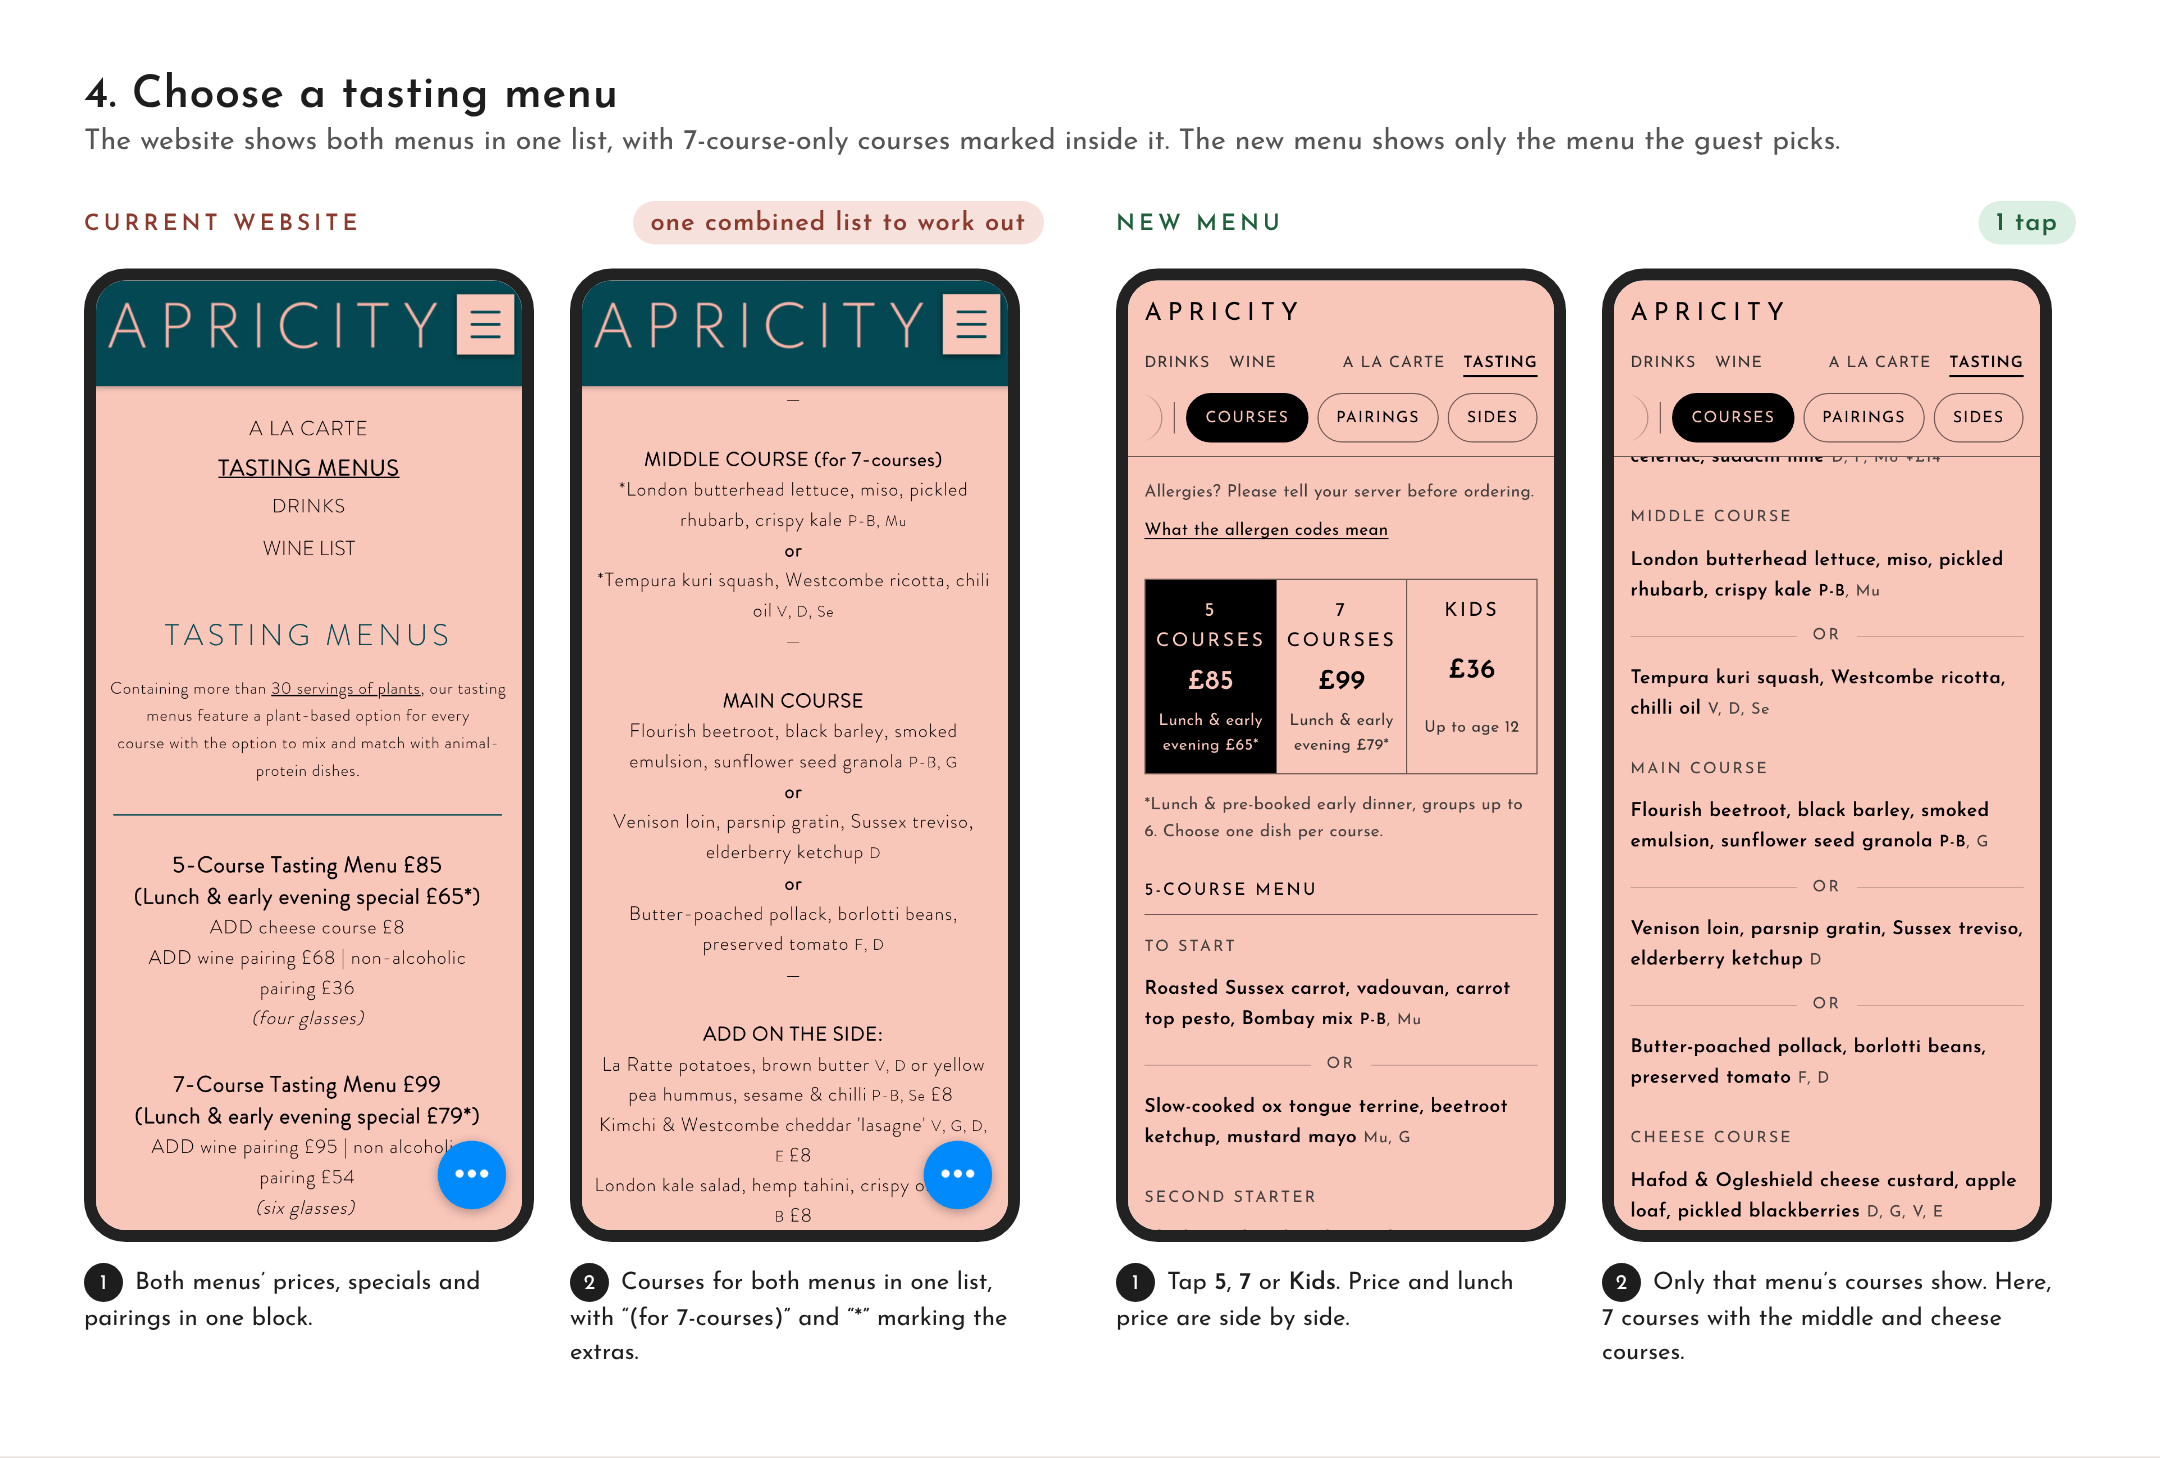
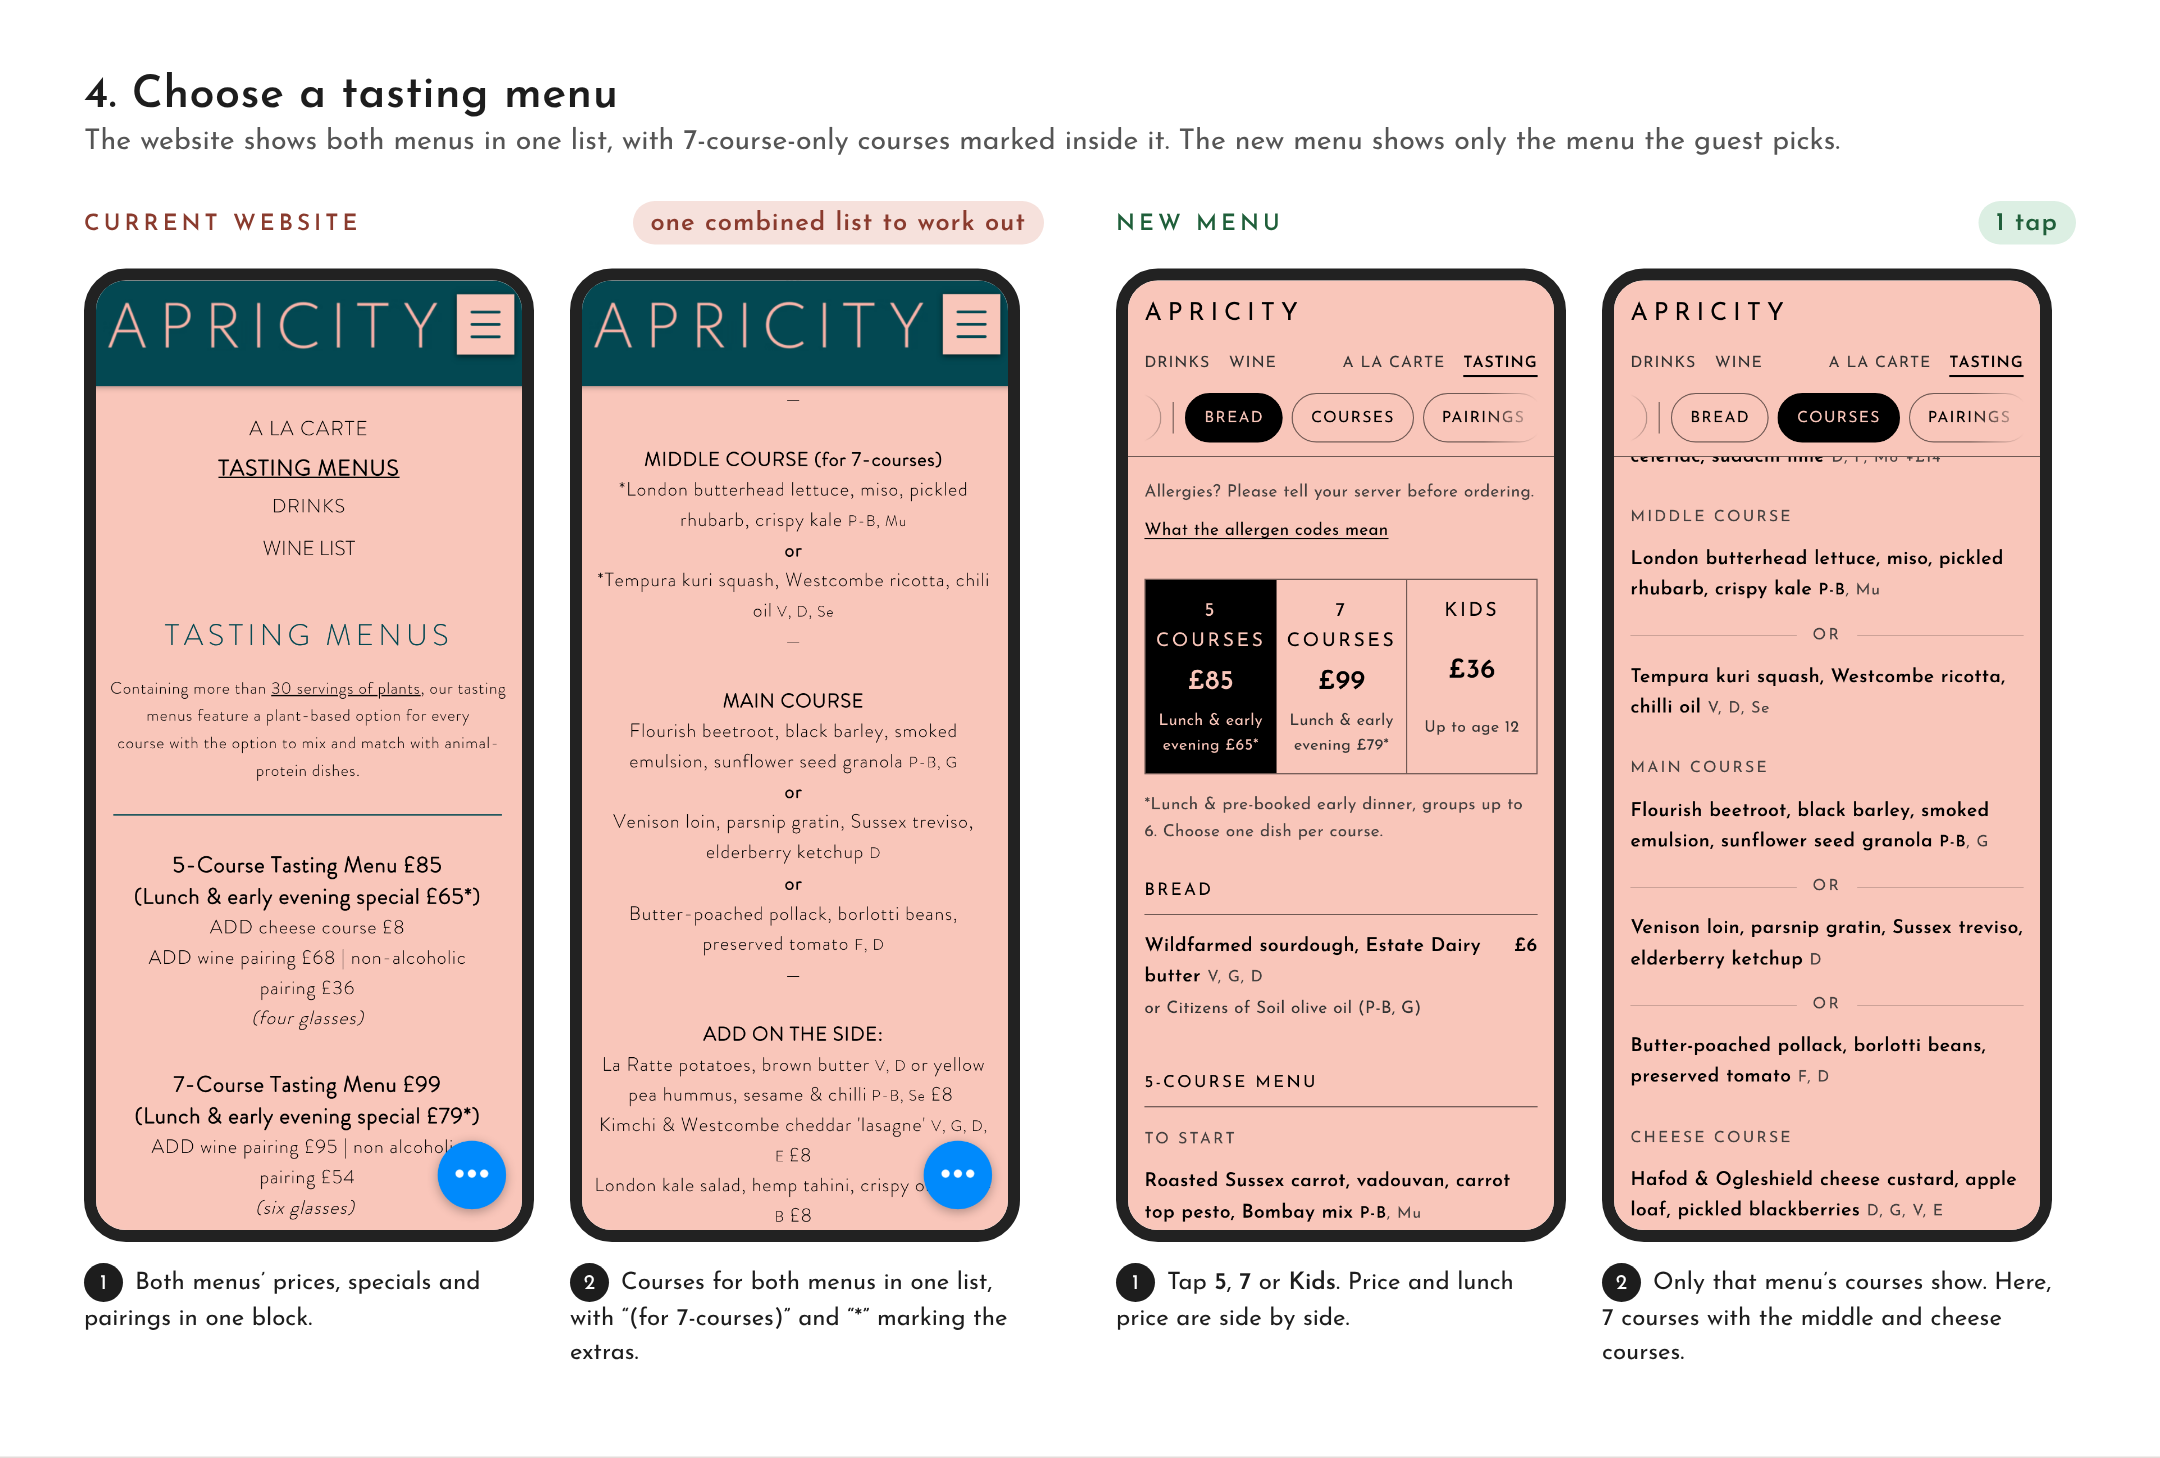
Tasting menus: bread at the top, before the courses
Bread moves out of 'Add on the side' to its own group at the top of the
Tasting tab, and the page now places priced groups by their position in
the sheet: above the first course they show before the courses, below it
they show after the pairings. A Bread button joins the section row. Staff
guide and tasting screenshots updated.

Claude-Session: https://claude.ai/code/session_01GSSoGmMPpnkgwBsug1j8uu

diff --git a/chefs-table.html b/chefs-table.html
@@ -485,9 +485,11 @@ details dd { margin: 0; }
       }).join("") + '</div><p class="note">' + (cur.kids ? "Choose one dish per course. We can cater for most dietary needs, so please ask your server."
         : "*Lunch &amp; pre-booked early dinner, groups up to 6. Choose one dish per course.") + "</p>";
 
-      var groups = groupBy(cur.kids ? d.kids : d.tasting, "course"), courses = "", extras = [];
+      // Priced groups (bread, sides) sit where they are in the sheet: above the first course they come before the
+      // courses, below it they come after the pairings.
+      var groups = groupBy(cur.kids ? d.kids : d.tasting, "course"), courses = "", before = [], extras = [];
       groups.forEach(function (g) {
-        if (g.rows.some(function (r) { return r.price; })) { extras.push(g); return; }
+        if (g.rows.some(function (r) { return r.price; })) { (courses ? extras : before).push(g); return; }
         var only7 = g.rows.some(function (r) { return /7/.test(r.courses || "") && !/both|5/i.test(r.courses); });
         if (only7 && state.courses !== 7) {
           var add = (g.rows.filter(function (r) { return r["add to 5-course"]; })[0] || {})["add to 5-course"];
@@ -500,7 +502,12 @@ details dd { margin: 0; }
           return "<li>" + (i ? '<span class="or">or </span>' : "") + esc(r.dish) + codes(r.allergens) + (r.supplement ? ' <span class="codes">+' + esc(money(r.supplement)) + "</span>" : "") + "</li>";
         }).join("") + "</ul>";
       });
-      var nav = [["courses", "Courses"]];
+      var nav = [];
+      before.forEach(function (g) {
+        nav.push([slug(g.title), g.title]);
+        html += section(slug(g.title), g.title, list(plantFilter(g.rows).map(rowItem)));
+      });
+      nav.push(["courses", "Courses"]);
       html += section("courses", cur.kids ? "Culinary Kids’ menu" : state.courses + "-course menu", courses);
       if (!cur.kids && (sel["wine pairing"] || sel["alcohol-free pairing"])) {
         nav.push(["pairings", "Pairings"]);

diff --git a/index.html b/index.html
@@ -485,9 +485,11 @@ details dd { margin: 0; }
       }).join("") + '</div><p class="note">' + (cur.kids ? "Choose one dish per course. We can cater for most dietary needs, so please ask your server."
         : "*Lunch &amp; pre-booked early dinner, groups up to 6. Choose one dish per course.") + "</p>";
 
-      var groups = groupBy(cur.kids ? d.kids : d.tasting, "course"), courses = "", extras = [];
+      // Priced groups (bread, sides) sit where they are in the sheet: above the first course they come before the
+      // courses, below it they come after the pairings.
+      var groups = groupBy(cur.kids ? d.kids : d.tasting, "course"), courses = "", before = [], extras = [];
       groups.forEach(function (g) {
-        if (g.rows.some(function (r) { return r.price; })) { extras.push(g); return; }
+        if (g.rows.some(function (r) { return r.price; })) { (courses ? extras : before).push(g); return; }
         var only7 = g.rows.some(function (r) { return /7/.test(r.courses || "") && !/both|5/i.test(r.courses); });
         if (only7 && state.courses !== 7) {
           var add = (g.rows.filter(function (r) { return r["add to 5-course"]; })[0] || {})["add to 5-course"];
@@ -500,7 +502,12 @@ details dd { margin: 0; }
           return "<li>" + (i ? '<span class="or">or </span>' : "") + esc(r.dish) + codes(r.allergens) + (r.supplement ? ' <span class="codes">+' + esc(money(r.supplement)) + "</span>" : "") + "</li>";
         }).join("") + "</ul>";
       });
-      var nav = [["courses", "Courses"]];
+      var nav = [];
+      before.forEach(function (g) {
+        nav.push([slug(g.title), g.title]);
+        html += section(slug(g.title), g.title, list(plantFilter(g.rows).map(rowItem)));
+      });
+      nav.push(["courses", "Courses"]);
       html += section("courses", cur.kids ? "Culinary Kids’ menu" : state.courses + "-course menu", courses);
       if (!cur.kids && (sel["wine pairing"] || sel["alcohol-free pairing"])) {
         nav.push(["pairings", "Pairings"]);

diff --git a/src/chefs-table.html b/src/chefs-table.html
@@ -477,9 +477,11 @@ details dd { margin: 0; }
       }).join("") + '</div><p class="note">' + (cur.kids ? "Choose one dish per course. We can cater for most dietary needs, so please ask your server."
         : "*Lunch &amp; pre-booked early dinner, groups up to 6. Choose one dish per course.") + "</p>";
 
-      var groups = groupBy(cur.kids ? d.kids : d.tasting, "course"), courses = "", extras = [];
+      // Priced groups (bread, sides) sit where they are in the sheet: above the first course they come before the
+      // courses, below it they come after the pairings.
+      var groups = groupBy(cur.kids ? d.kids : d.tasting, "course"), courses = "", before = [], extras = [];
       groups.forEach(function (g) {
-        if (g.rows.some(function (r) { return r.price; })) { extras.push(g); return; }
+        if (g.rows.some(function (r) { return r.price; })) { (courses ? extras : before).push(g); return; }
         var only7 = g.rows.some(function (r) { return /7/.test(r.courses || "") && !/both|5/i.test(r.courses); });
         if (only7 && state.courses !== 7) {
           var add = (g.rows.filter(function (r) { return r["add to 5-course"]; })[0] || {})["add to 5-course"];
@@ -492,7 +494,12 @@ details dd { margin: 0; }
           return "<li>" + (i ? '<span class="or">or </span>' : "") + esc(r.dish) + codes(r.allergens) + (r.supplement ? ' <span class="codes">+' + esc(money(r.supplement)) + "</span>" : "") + "</li>";
         }).join("") + "</ul>";
       });
-      var nav = [["courses", "Courses"]];
+      var nav = [];
+      before.forEach(function (g) {
+        nav.push([slug(g.title), g.title]);
+        html += section(slug(g.title), g.title, list(plantFilter(g.rows).map(rowItem)));
+      });
+      nav.push(["courses", "Courses"]);
       html += section("courses", cur.kids ? "Culinary Kids’ menu" : state.courses + "-course menu", courses);
       if (!cur.kids && (sel["wine pairing"] || sel["alcohol-free pairing"])) {
         nav.push(["pairings", "Pairings"]);

diff --git a/src/menu.html b/src/menu.html
@@ -477,9 +477,11 @@ details dd { margin: 0; }
       }).join("") + '</div><p class="note">' + (cur.kids ? "Choose one dish per course. We can cater for most dietary needs, so please ask your server."
         : "*Lunch &amp; pre-booked early dinner, groups up to 6. Choose one dish per course.") + "</p>";
 
-      var groups = groupBy(cur.kids ? d.kids : d.tasting, "course"), courses = "", extras = [];
+      // Priced groups (bread, sides) sit where they are in the sheet: above the first course they come before the
+      // courses, below it they come after the pairings.
+      var groups = groupBy(cur.kids ? d.kids : d.tasting, "course"), courses = "", before = [], extras = [];
       groups.forEach(function (g) {
-        if (g.rows.some(function (r) { return r.price; })) { extras.push(g); return; }
+        if (g.rows.some(function (r) { return r.price; })) { (courses ? extras : before).push(g); return; }
         var only7 = g.rows.some(function (r) { return /7/.test(r.courses || "") && !/both|5/i.test(r.courses); });
         if (only7 && state.courses !== 7) {
           var add = (g.rows.filter(function (r) { return r["add to 5-course"]; })[0] || {})["add to 5-course"];
@@ -492,7 +494,12 @@ details dd { margin: 0; }
           return "<li>" + (i ? '<span class="or">or </span>' : "") + esc(r.dish) + codes(r.allergens) + (r.supplement ? ' <span class="codes">+' + esc(money(r.supplement)) + "</span>" : "") + "</li>";
         }).join("") + "</ul>";
       });
-      var nav = [["courses", "Courses"]];
+      var nav = [];
+      before.forEach(function (g) {
+        nav.push([slug(g.title), g.title]);
+        html += section(slug(g.title), g.title, list(plantFilter(g.rows).map(rowItem)));
+      });
+      nav.push(["courses", "Courses"]);
       html += section("courses", cur.kids ? "Culinary Kids’ menu" : state.courses + "-course menu", courses);
       if (!cur.kids && (sel["wine pairing"] || sel["alcohol-free pairing"])) {
         nav.push(["pairings", "Pairings"]);

diff --git a/UPDATING-THE-MENU.md b/UPDATING-THE-MENU.md
@@ -60,7 +60,7 @@ The menu guests see after scanning the QR code is read from the **Apricity menus
 | Supplement | Extra charge for this choice | 14 |
 | Courses | `Both`, or `7 only` for courses served only on the 7-course menu | 7 only |
 | Add to 5-course | For a 7-only course that 5-course guests can add, the price | 8 |
-| Description, Price | Only for the *Add on the side* rows (bread and sides) | £8 |
+| Description, Price | Only for priced extras such as *Bread* and *Add on the side*. Rows above the first course (bread) show before the courses; rows below the last course (sides) show after the pairings | £8 |
 | Show | `no` to hide | yes |
 
 **Kids**: the same columns as *Tasting*. Usually only *Course*, *Dish*, *Allergens* and *Show* are filled in.
